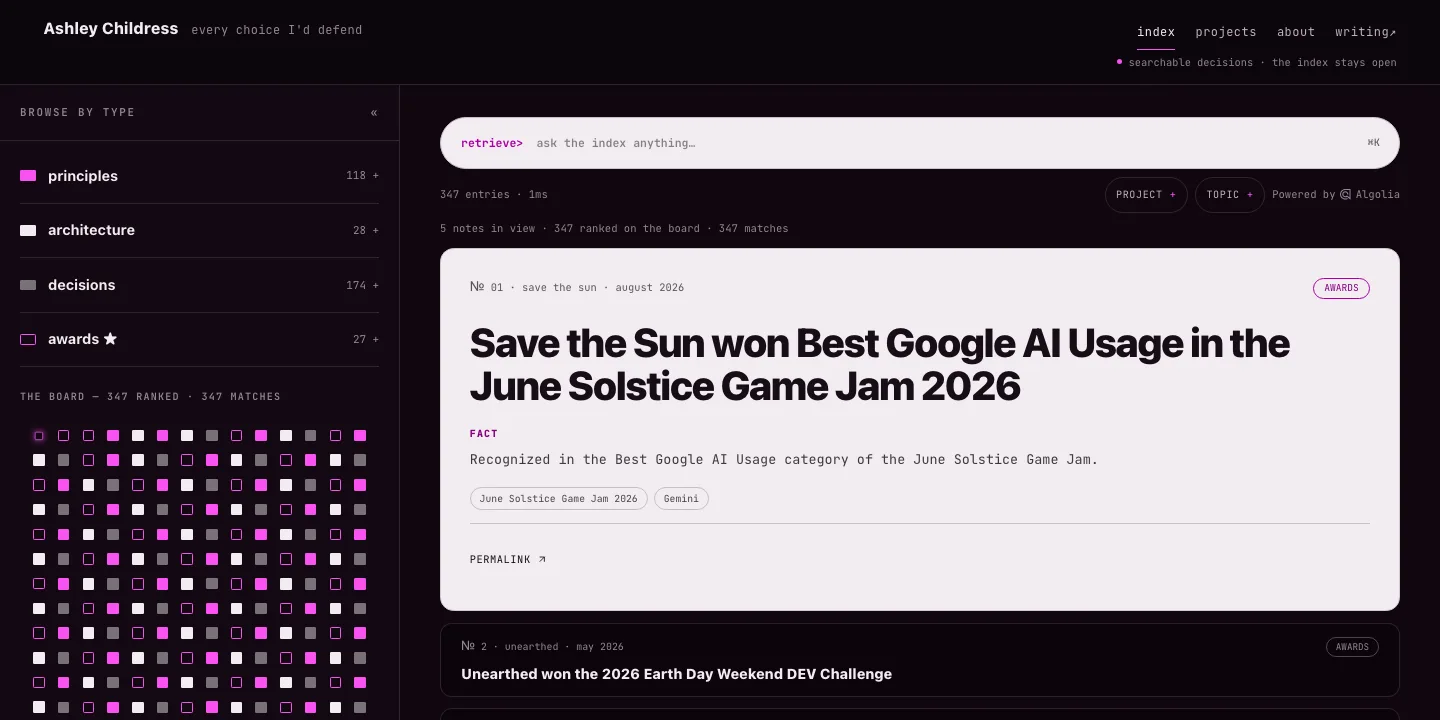
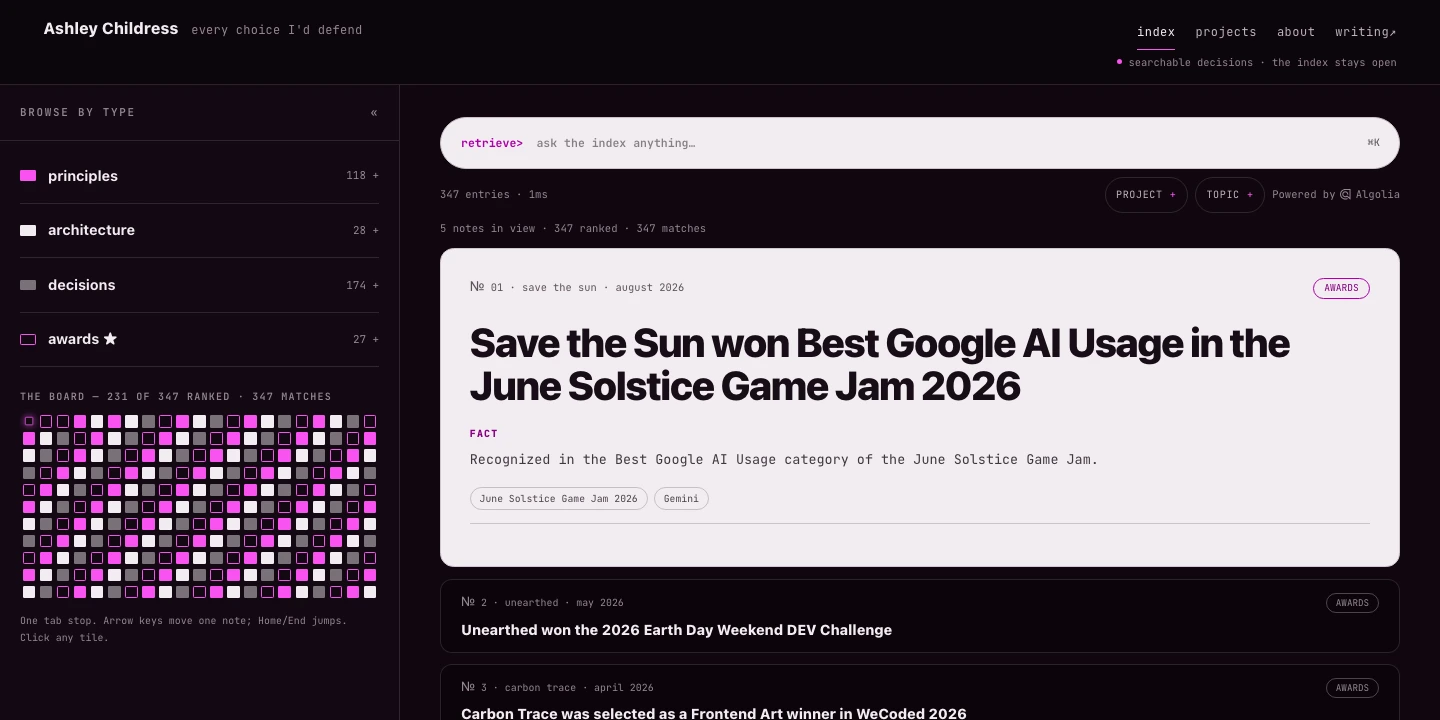
test(index): match the specs to the trimmed board
Three specs still described the board before it trimmed, and none of it
surfaced because the board work was validated against unit tests alone.

The ranked-board spec asserted 347 tiles and reached for the 347th by
index. It now asserts the shape contract — the tile count is a whole
multiple of the resolved columns, and the tiles are the ranked list's
prefix — which holds at every viewport rather than pinning a number that
differs per browser project. End lands on the board's last tile.

The ?note spec still expected URL-driven selection, removed when
selection moved into the workspace. Inverted: a stale ?note link is inert
and the reader opens on the top-ranked note, which guards the removal
instead of deleting the coverage.

system-notes.webp is the reference for the approved desktop composition
and was last regenerated one commit before this work, so shortening the
board left it stale by 9.4% of pixels against a 5% gate. Recaptured under
the spec's own conditions.

Generated-by: Claude Opus 5

diff --git a/tests/search.spec.ts b/tests/search.spec.ts
@@ -168,12 +168,26 @@ test.describe('Notes index', () => {
     const board = page.getByRole('listbox', { name: 'Top ranked notes' });
     const tiles = board.getByRole('option');
 
-    await expect(tiles).toHaveCount(347);
+    // Unfiltered, the board trims to whole rows, so its tile count follows the
+    // resolved column track rather than the hit count and differs per viewport.
+    // Assert the shape contract instead of a fixed number.
+    const boardShape = await board.evaluate((node) => ({
+      columns: globalThis.getComputedStyle(node).gridTemplateColumns.split(/\s+/).filter(Boolean)
+        .length,
+      tiles: node.children.length,
+    }));
+    expect(boardShape.columns).toBeGreaterThan(0);
+    expect(boardShape.tiles).toBeLessThan(hits.length);
+    expect(boardShape.tiles % boardShape.columns).toBe(0);
+
+    await expect(tiles).toHaveCount(boardShape.tiles);
     await expect(tiles.nth(0)).toHaveAttribute('data-category', 'award');
     await expect(tiles.nth(1)).toHaveAttribute('data-category', 'decision');
     await expect(tiles.nth(2)).toHaveAttribute('data-category', 'architecture');
     await expect(tiles.nth(3)).toHaveAttribute('data-category', 'principle');
-    await expect(tiles.nth(346)).toHaveAccessibleName('Read note 347: Ranked note 347');
+    await expect(tiles.nth(boardShape.tiles - 1)).toHaveAccessibleName(
+      `Read note ${boardShape.tiles}: Ranked note ${boardShape.tiles}`
+    );
     await expect(page.getByRole('navigation', { name: 'Notes pagination' })).toHaveCount(0);
     expect(requestedLimits).toContain('500');
 
@@ -186,9 +200,12 @@ test.describe('Notes index', () => {
     const initialQueueTitles = await page
       .locator('[data-ranked-queue] button')
       .evaluateAll((buttons) => buttons.map((button) => button.children.item(1)?.textContent));
-    expect(tileTitles).toEqual(hits.map((hit) => hit.title));
+    // The board keeps rank order and trims from the tail, so the tiles are the
+    // ranked list's prefix — never a reordering or a sample of it.
+    const onBoard = hits.slice(0, boardShape.tiles);
+    expect(tileTitles).toEqual(onBoard.map((hit) => hit.title));
     expect(initialQueueTitles).toEqual(hits.slice(1, 5).map((hit) => hit.title));
-    expect(tileCategories).toEqual(hits.map((hit) => hit.category?.toLocaleLowerCase()));
+    expect(tileCategories).toEqual(onBoard.map((hit) => hit.category?.toLocaleLowerCase()));
     await expect(page.getByText(/5 notes in view · 347 ranked · 347 matches/i)).toBeVisible();
 
     const colorSignatures = await tiles.evaluateAll((options) =>
@@ -216,8 +233,13 @@ test.describe('Notes index', () => {
     await expect(board).toHaveAttribute('aria-activedescendant', 'note-board-option-0');
     await board.press('ArrowRight');
     await expect(board).toHaveAttribute('aria-activedescendant', 'note-board-option-1');
+    // End lands on the board's last tile, which the row trim moves off the
+    // ranked list's tail.
     await board.press('End');
-    await expect(board).toHaveAttribute('aria-activedescendant', 'note-board-option-346');
+    await expect(board).toHaveAttribute(
+      'aria-activedescendant',
+      `note-board-option-${boardShape.tiles - 1}`
+    );
     await board.press('Home');
     await expect(board).toHaveAttribute('aria-activedescendant', 'note-board-option-0');
     await board.press('a');
@@ -261,7 +283,7 @@ test.describe('Notes index', () => {
     expect(accessibility.violations).toEqual([]);
   });
 
-  test('selects the note from ?note route state on load', async ({ page }) => {
+  test('ignores a ?note param and opens the top-ranked note', async ({ page }) => {
     await mockAlgoliaSearch(page, [
       buildHit({ objectID: 'card:test:1', title: 'First decision' }),
       buildHit({
@@ -270,12 +292,14 @@ test.describe('Notes index', () => {
         category: 'Decision',
       }),
     ]);
+    // Selection lives in the workspace, not the URL. A stale ?note link is inert
+    // rather than authoritative, so the reader opens on the top-ranked note.
     await page.goto('/?note=card%3Atest%3A2');
 
-    await expect(page.getByRole('article')).toContainText('Selected decision');
+    await expect(page.getByRole('article')).toContainText('First decision');
     await expect(page.getByRole('listbox', { name: 'Top ranked notes' })).toHaveAttribute(
       'aria-activedescendant',
-      'note-board-option-1'
+      'note-board-option-0'
     );
   });
 });
